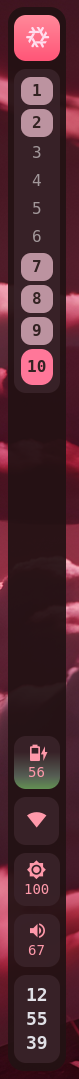
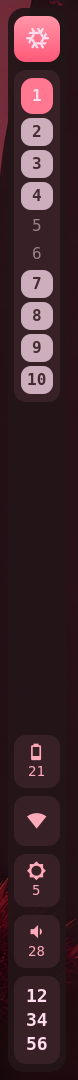
wip

diff --git a/README.md b/README.md
@@ -4,10 +4,45 @@
 
 </h1>
 
-
-<img src="./bar.png"/>
-
 A minimalist, hardened status bar.
+
+<p align="center">
+    <a href="https://github.com/tkr-sh/tkbar">
+        <img
+            src="https://img.shields.io/github/v/release/tkr-sh/tkbar?colorA=363a4f&colorB=a6da95&style=for-the-badge&logo=github&logoColor=cad3f5"
+            alt="github release"
+        />
+    </a>
+    <a href="https://github.com/tkr-sh/tkbar/actions">
+        <img
+            src="https://img.shields.io/github/actions/workflow/status/tkr-sh/tkbar/ci?colorA=363a4f&colorB=b7bdf8&style=for-the-badge&logo=rust&logoColor=cad3f5"
+            alt="crates.io downloads"
+        />
+    </a>
+    <!--
+    <a href="https://crates.io/crates/tkbar">
+        <img
+            src="https://img.shields.io/crates/d/tkbar.svg?colorA=363a4f&colorB=b7bdf8&style=for-the-badge&logo=rust&logoColor=cad3f5"
+            alt="crates.io downloads"
+        />
+    </a>
+    -->
+    <a href="https://github.com/tkr-sh/tkbar">
+        <img
+            src="https://img.shields.io/github/stars/tkr-sh/tkbar?colorA=363a4f&colorB=eed49f&style=for-the-badge&logo=star"
+            alt="stars"
+        />
+    </a>
+</p>
+
+
+<div style="display: flex; flex-direction: row">
+
+<img src="./ressources/bar-red.png"/>
+<img src="./ressources/bar-orange.png"/>
+
+</div>
+
 
 I was personally unsatisfied with the state of wayland bars and shells (bloat, huge attack surface, not enough config options, not handling some protocols, etc.) so I just wrote a minimal thing that worked for me.
 
